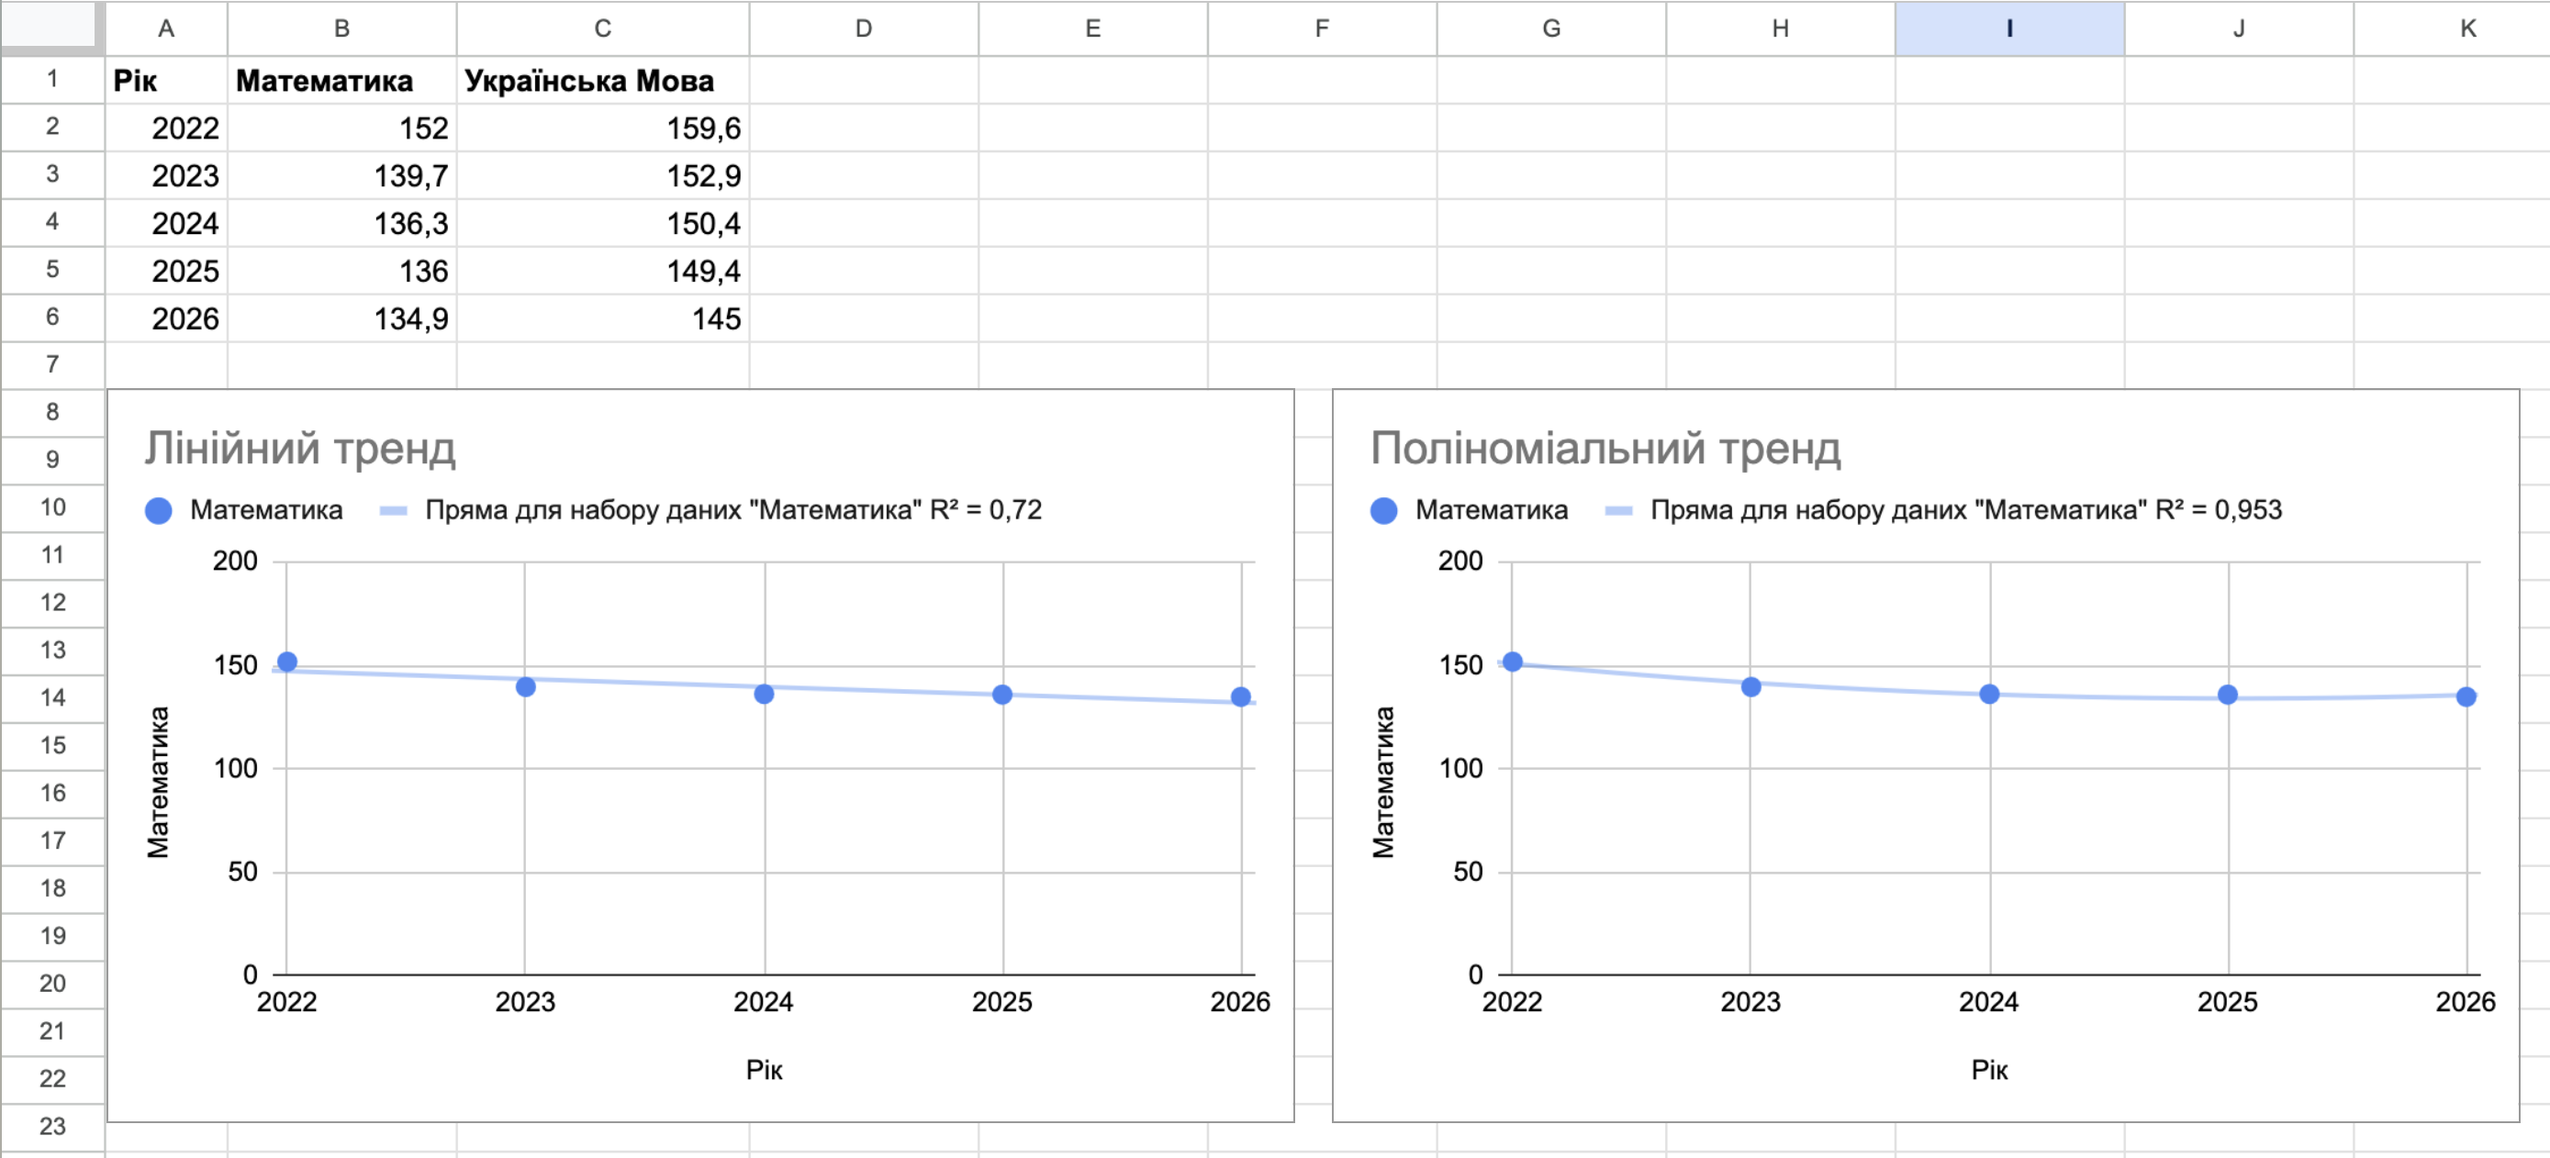
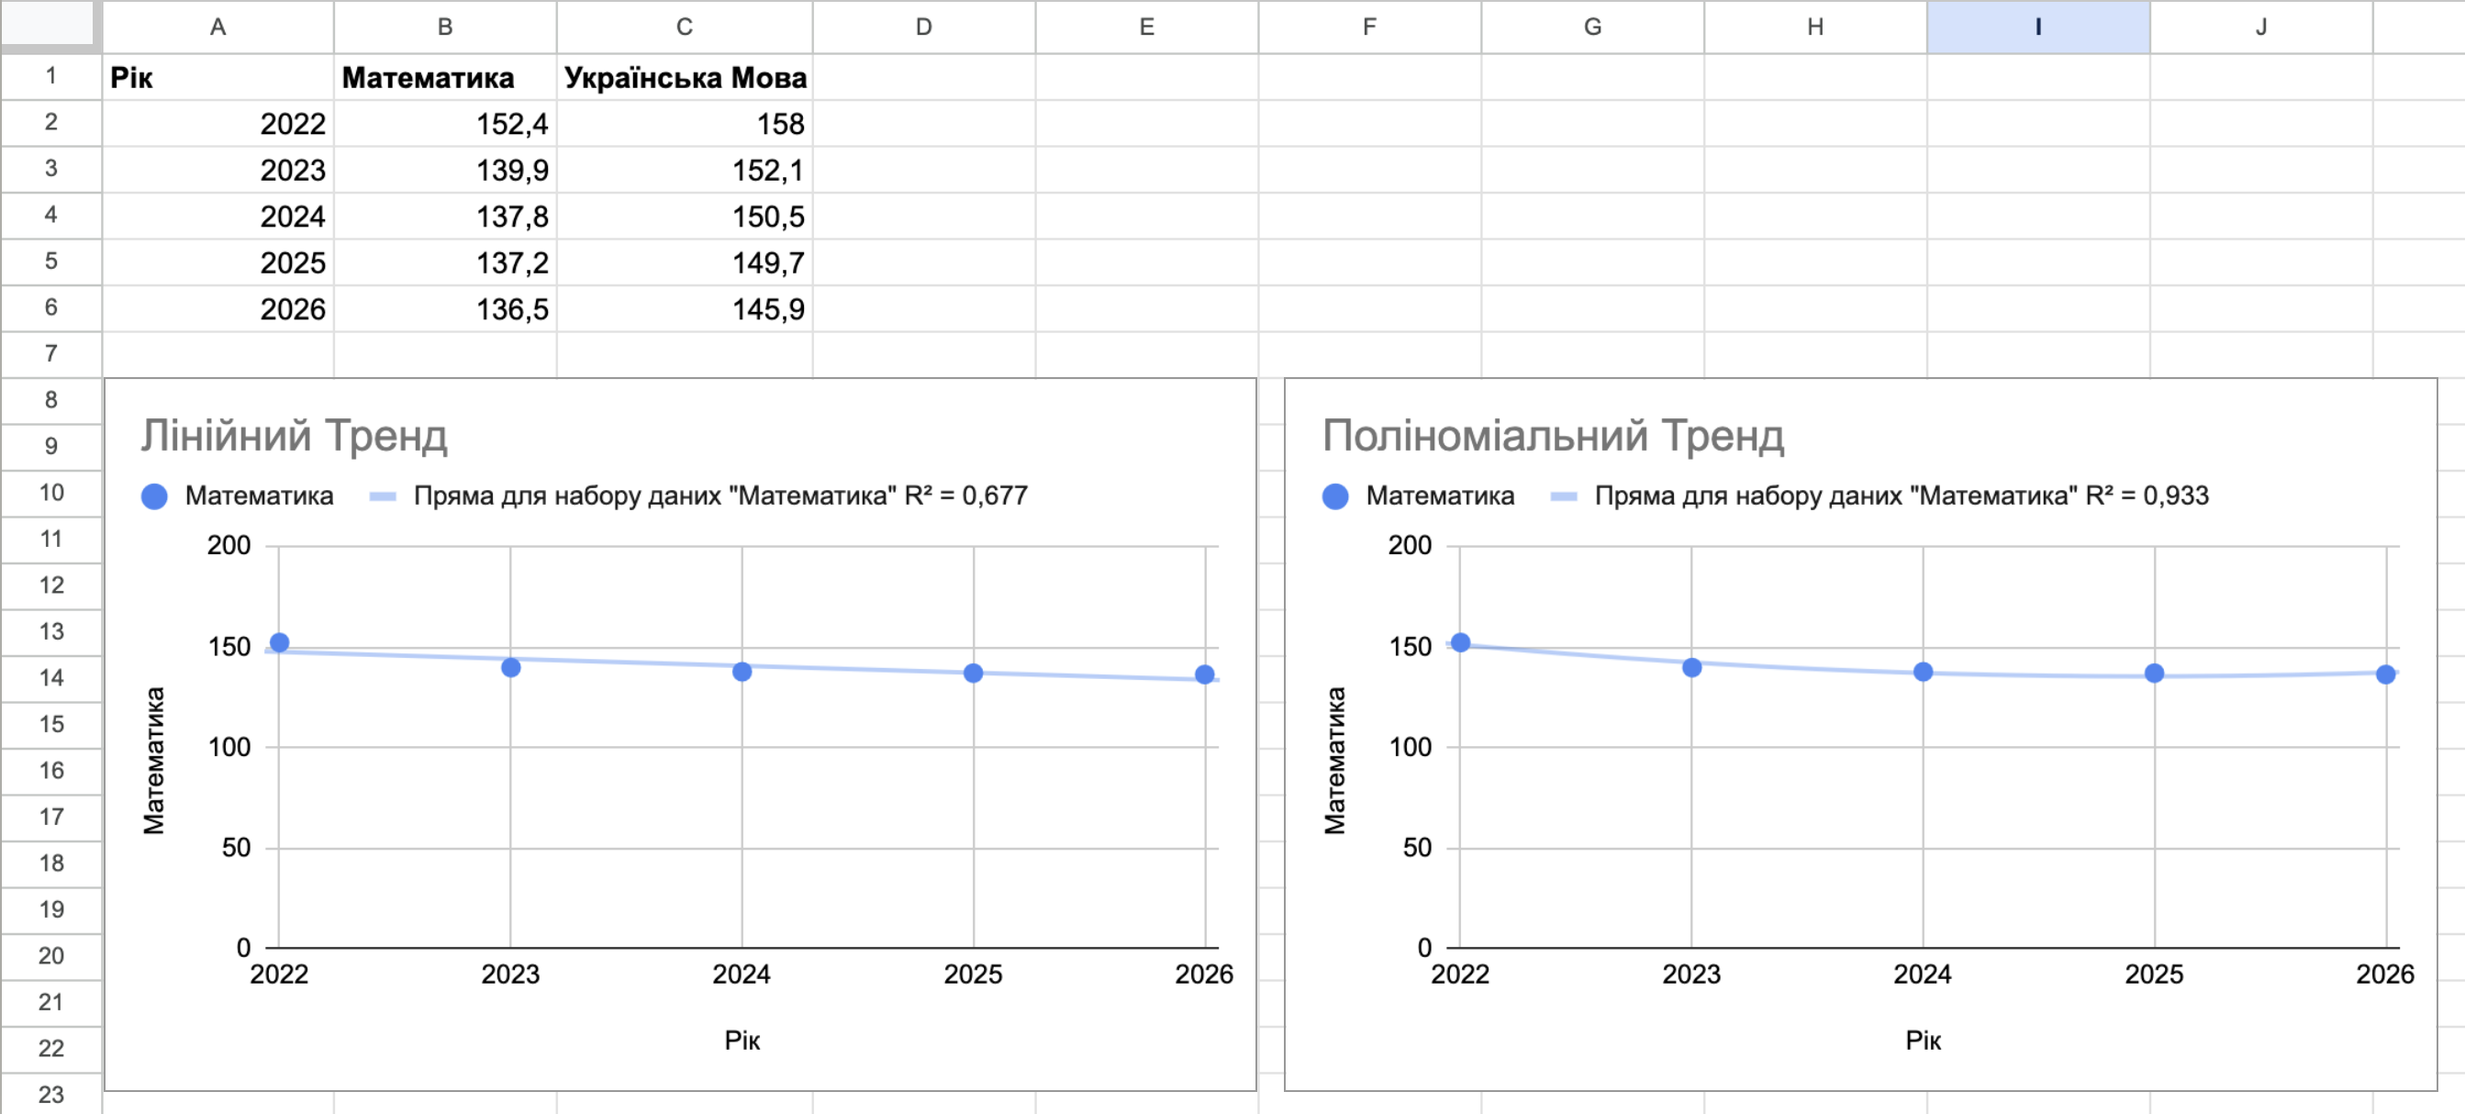
Use Kyiv NMT data for trend task in grade 9 control work
Lviv region data was a worked example and homework in lessons 6-7,
so students could answer from memory.

diff --git a/content/9/assessments/information-literacy-control-v2-key.md b/content/9/assessments/information-literacy-control-v2-key.md
@@ -42,11 +42,11 @@
 - Названо **4 регіони**: Миколаївська (3 164 720 грн), Волинська (3 389 120 грн), Рівненська (3 666 730 грн), Вінницька (3 979 360 грн). Допускається одна пропущена область — **1 бал**
 - Висновок: гіпотеза **не підтвердилася**: Волинська й Рівненська області справді мають менше 4 млн грн, але таких регіонів не два, а чотири. Наведено хоча б одне число з «зайвих» регіонів (наприклад, Миколаївська — 3 164 720 грн) — **1 бал**
 
-**Завдання 12.** Тренд і прогноз середнього бала НМТ з української мови (Львівська обл.: 2022 — 159,6; 2023 — 152,9; 2024 — 150,4; 2025 — 149,4; 2026 — 145)
+**Завдання 12.** Тренд і прогноз середнього бала НМТ з української мови (м. Київ: 2022 — 158; 2023 — 152,1; 2024 — 150,5; 2025 — 149,7; 2026 — 145,9)
 
 - Напрям тренду — **спадає** (середній бал щороку знижується) — **1 бал**
-- R² обох трендів високі й близькі: лінійний — 0,926, поліноміальний — 0,949. Для прогнозу варто обрати **лінійний** тренд: він простіший, а невелика перевага поліноміального R² на 5 точках — це підлаштування під наявні значення (перепідлаштування), а не надійніший прогноз. Зараховується пояснення «вищий R² не означає надійніший прогноз» з посиланням на малу кількість точок. Оскільки R² тут майже однакові, зараховується й вибір **поліноміального** тренду, якщо учень обґрунтовує його порівнянням R² і зазначає, що обидва тренди дають близький результат — **1 бал**
-- Прогноз за схемою «Я думаю, що… бо…» зі значенням, **нижчим за 145**, обґрунтованим спадним трендом. Орієнтир: лінійний тренд дає ≈ 141,7 бала, поліноміальний — ≈ 144,7 (зараховувати 139–145) — **1 бал**
+- R² обох трендів високі й близькі: лінійний — 0,909, поліноміальний — 0,932. Для прогнозу варто обрати **лінійний** тренд: він простіший, а невелика перевага поліноміального R² на 5 точках — це підлаштування під наявні значення (перепідлаштування), а не надійніший прогноз. Зараховується пояснення «вищий R² не означає надійніший прогноз» з посиланням на малу кількість точок. Оскільки R² тут майже однакові, зараховується й вибір **поліноміального** тренду, якщо учень обґрунтовує його порівнянням R² і зазначає, що обидва тренди дають близький результат — **1 бал**
+- Прогноз за схемою «Я думаю, що… бо…» зі значенням, **нижчим за 145,9**, обґрунтованим спадним трендом. Орієнтир: лінійний тренд дає ≈ 143,3 бала, поліноміальний — ≈ 145,8 (зараховувати 141–145,9) — **1 бал**
 
 **Завдання 13.** Помилка в запиті «оцінки нижче 6 з української мови» (MS Access)
 

diff --git a/content/9/assessments/information-literacy-control-v1-key.md b/content/9/assessments/information-literacy-control-v1-key.md
@@ -42,11 +42,11 @@
 - Названо **4 регіони**: Одеська (5 083 510 грн), Київська область та м. Київ (4 929 490 грн), Дніпропетровська (2 832 710 грн), Харківська (2 197 930 грн). Допускається одна пропущена область — **1 бал**
 - Висновок: гіпотеза **не підтвердилася**, бо 2 млн грн перевищено не у двох, а в чотирьох регіонах; наведено хоча б одне число з «зайвих» регіонів (наприклад, Дніпропетровська — 2 832 710 грн) — **1 бал**
 
-**Завдання 12.** Тренд і прогноз середнього бала НМТ з математики (Львівська обл.: 2022 — 152; 2023 — 139,7; 2024 — 136,3; 2025 — 136; 2026 — 134,9)
+**Завдання 12.** Тренд і прогноз середнього бала НМТ з математики (м. Київ: 2022 — 152,4; 2023 — 139,9; 2024 — 137,8; 2025 — 137,2; 2026 — 136,5)
 
 - Напрям тренду — **спадає** (середній бал щороку знижується) — **1 бал**
-- Для прогнозу варто обрати **лінійний** тренд (R² = 0,72), хоча поліноміальний має вищий R² (0,953): точок лише 5, тож поліноміальна лінія «підлаштовується» під наявні значення (перепідлаштування) і за межами відомих років загинається вгору всупереч спаданню. Зараховується пояснення «вищий R² не означає надійніший прогноз» з посиланням на малу кількість точок або на вигин лінії — **1 бал**
-- Прогноз за схемою «Я думаю, що… бо…» зі значенням, **нижчим за 134,9**, обґрунтованим лінійним трендом. Орієнтир: лінійний тренд дає ≈ 128,4 бала (зараховувати 126–132). Прогноз ≈ 141 за поліноміальним трендом не зараховується — **1 бал**
+- Для прогнозу варто обрати **лінійний** тренд (R² = 0,677), хоча поліноміальний має вищий R² (0,933): точок лише 5, тож поліноміальна лінія «підлаштовується» під наявні значення (перепідлаштування) і за межами відомих років загинається вгору всупереч спаданню. Зараховується пояснення «вищий R² не означає надійніший прогноз» з посиланням на малу кількість точок або на вигин лінії — **1 бал**
+- Прогноз за схемою «Я думаю, що… бо…» зі значенням, **нижчим за 136,5**, обґрунтованим лінійним трендом. Орієнтир: лінійний тренд дає ≈ 130,4 бала (зараховувати 128–134). Прогноз ≈ 143 за поліноміальним трендом не зараховується — **1 бал**
 
 **Завдання 13.** Помилка в запиті «оцінки 10+ з фізики» (MS Access)
 

diff --git a/content/9/assessments/information-literacy-control-v2.md b/content/9/assessments/information-literacy-control-v2.md
@@ -111,9 +111,9 @@ _______________________________________________
 
 _______________________________________________
 
-**12.** На зображенні — дві точкові діаграми середнього бала НМТ з української мови у Львівській області за 2022–2026 роки: з лінійною та з поліноміальною лініями тренду *(див. зображення 3)*.
+**12.** На зображенні — дві точкові діаграми середнього бала НМТ з української мови у м. Києві за 2022–2026 роки: з лінійною та з поліноміальною лініями тренду *(див. зображення 3)*.
 
-![Дві точкові діаграми середнього бала НМТ з української мови (Львівська область) з лінійним і поліноміальним трендом та R²](../assets/assessments/information-literacy/information-literacy-img-5.png)
+![Дві точкові діаграми середнього бала НМТ з української мови (м. Київ) з лінійним і поліноміальним трендом та R²](../assets/assessments/information-literacy/information-literacy-img-5.png)
 
 1. Який напрям має тренд середнього бала з української мови: зростає, спадає чи майже не змінюється?
 2. Порівняйте значення R² обох трендів. Якому тренду ви довірите прогноз на 2027 рік і чому?

diff --git a/content/9/assessments/information-literacy-control-v1.md b/content/9/assessments/information-literacy-control-v1.md
@@ -111,9 +111,9 @@ _______________________________________________
 
 _______________________________________________
 
-**12.** На зображенні — дві точкові діаграми середнього бала НМТ з математики у Львівській області за 2022–2026 роки: з лінійною та з поліноміальною лініями тренду *(див. зображення 3)*.
+**12.** На зображенні — дві точкові діаграми середнього бала НМТ з математики у м. Києві за 2022–2026 роки: з лінійною та з поліноміальною лініями тренду *(див. зображення 3)*.
 
-![Дві точкові діаграми середнього бала НМТ з математики (Львівська область) з лінійним і поліноміальним трендом та R²](../assets/assessments/information-literacy/information-literacy-img-3.png)
+![Дві точкові діаграми середнього бала НМТ з математики (м. Київ) з лінійним і поліноміальним трендом та R²](../assets/assessments/information-literacy/information-literacy-img-3.png)
 
 1. Який напрям має тренд середнього бала з математики: зростає, спадає чи майже не змінюється?
 2. Поліноміальний тренд має вищий R². Якому тренду ви довірите прогноз на 2027 рік і чому?
